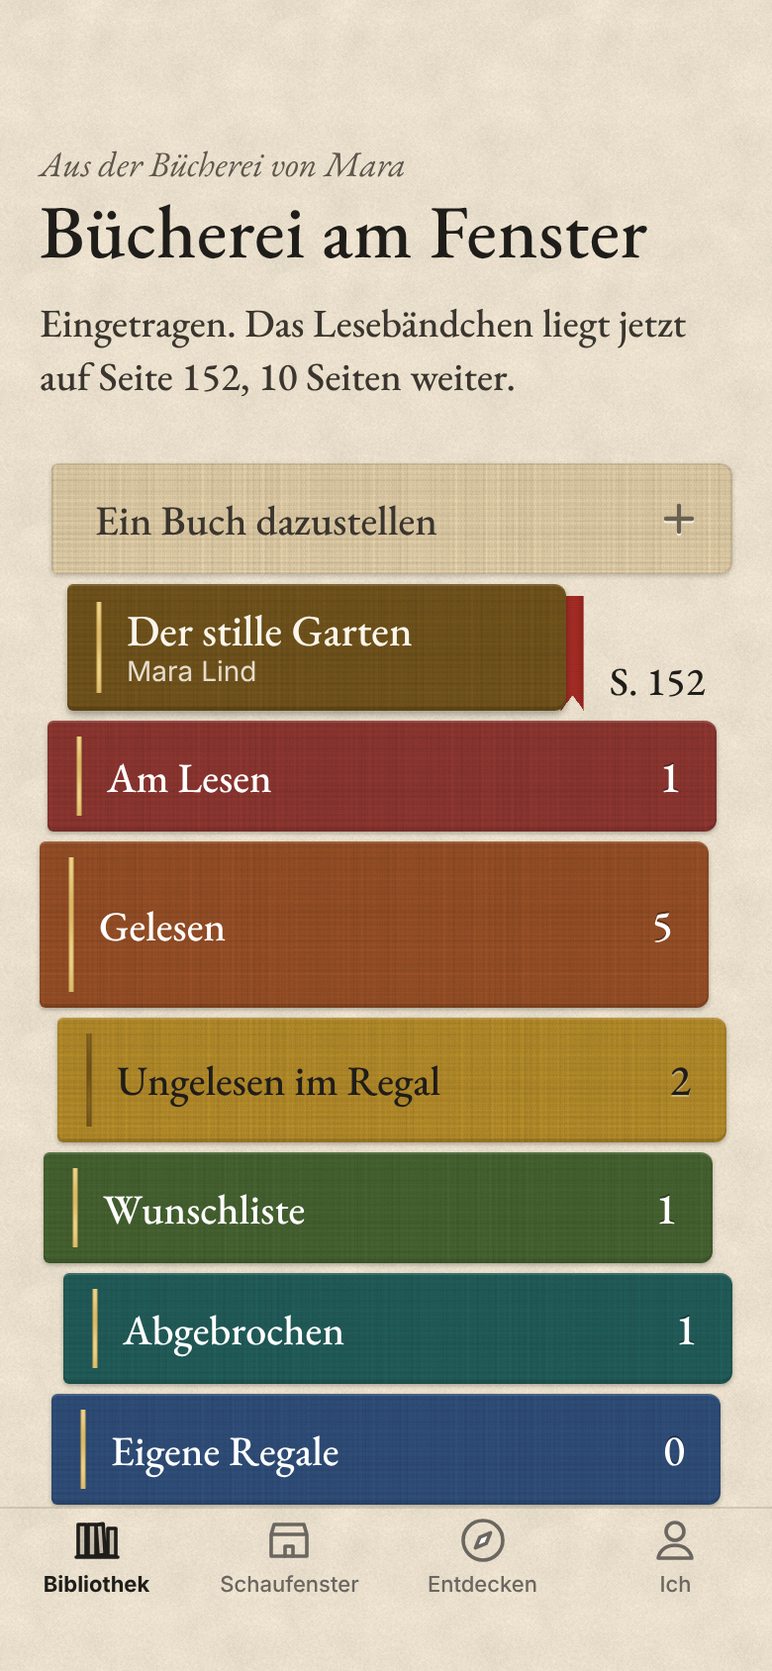
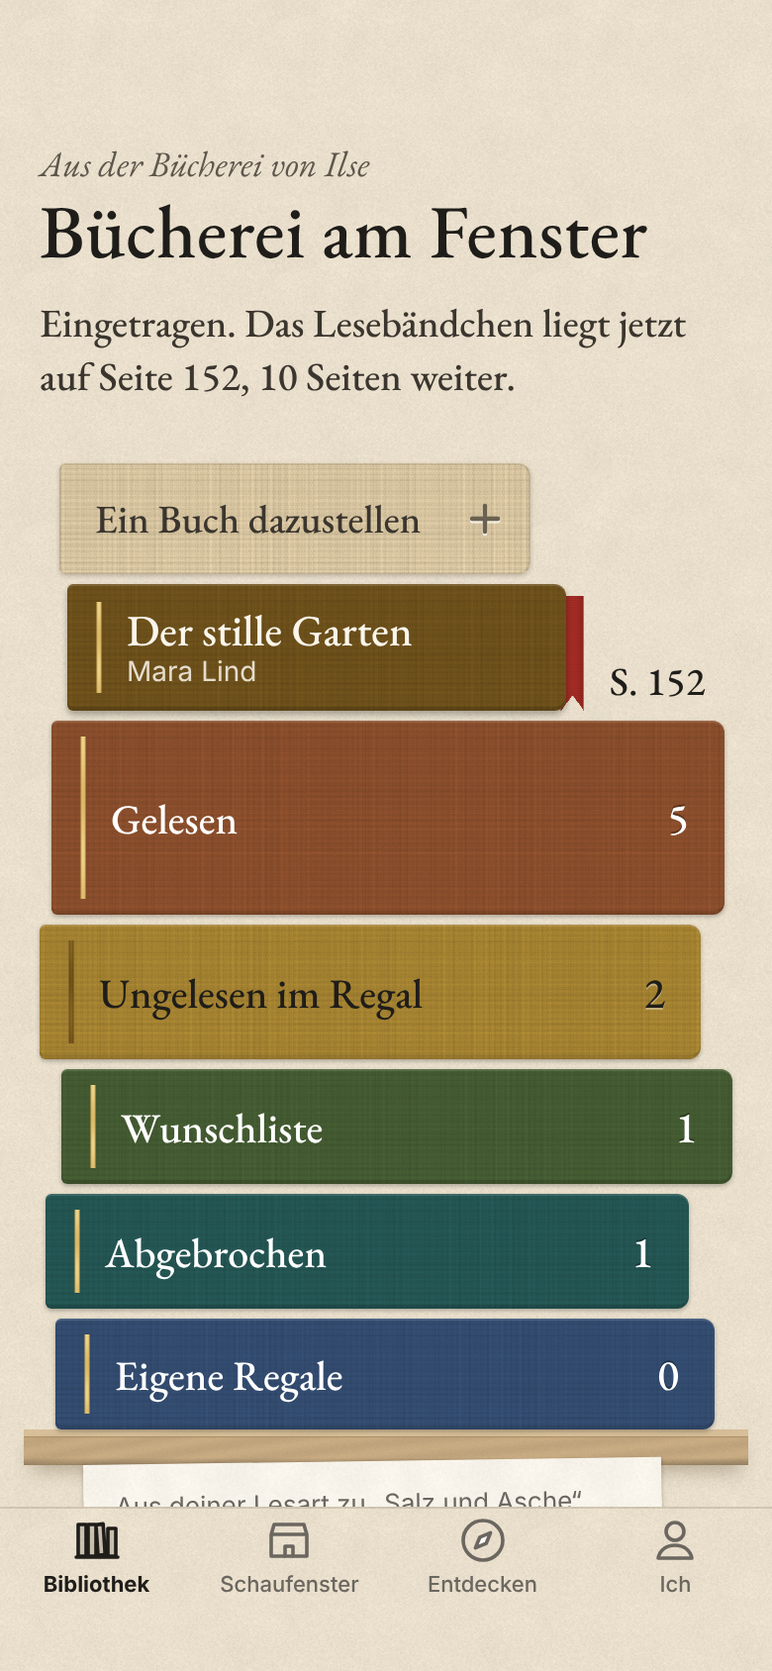
Nachprüfung der psychologischen Beratung: Stapel ohne Menü-Bände, ruhigerer Grund, Buchseiten in derselben Welt
Claude-Session: https://claude.ai/code/session_01XFBEjrJEUrXQYaFeZnVBdK

diff --git a/prototyp/app/Bibliothek.dc.html b/prototyp/app/Bibliothek.dc.html
@@ -21,7 +21,7 @@ input[type=search]::-webkit-search-cancel-button{display:none}
 ::selection{background:#E9D9B0;color:#1F1D1A}
 .linen{background-image:url(/_blob/fc177fec48818780d685607b9eea21d5);background-size:128px 128px;background-blend-mode:multiply}
 .vorsatz{background-image:url(/_blob/2a5bd52f874870d5bef9f086f6809ef7);background-size:390px 24px;background-repeat:repeat-x}
-.wall{background-color:#E9DFCC;background-image:url(/_blob/39fadb20abdb6a277d4352ba1feaef22);background-size:128px 128px}
+.wall{background-color:#E9DFCC;background-image:url(/_blob/613d9a95946f6112d2daabdd2d50346e);background-size:128px 128px}
 .paper{background-color:#F8F4EB;background-image:url(/_blob/67f11f01afe6fa9a030c514d45908343);background-size:128px 128px}
 .cloth-btn{background-color:#7E2E26;background-image:url(/_blob/fc177fec48818780d685607b9eea21d5);background-size:128px 128px;background-blend-mode:multiply}
 .scr{animation:fadeIn .15s ease-out both}
@@ -46,10 +46,10 @@ input[type=search]::-webkit-search-cancel-button{display:none}
 <p role="status" aria-live="polite" style="margin: 12px 0 0 0; font-family: 'EB Garamond', Georgia, serif; font-size: 20px; line-height: 27px; color: #3A352E">{{greeting}}</p>
 
 <div role="list" aria-label="Dein Regal" style="margin-top: 30px; display: flex; flex-direction: column; gap: 5px">
-<div role="listitem" style="padding-left: 6px">
+<div role="listitem" style="padding-left: 10px; width: 68%">
 <button type="button" onClick="{{openAdd}}" class="linen" style="position: relative; width: 100%; min-height: 56px; box-sizing: border-box; border: none; border-radius: 3px 6px 6px 3px; background-color: #F2DDB4; padding: 8px 0; cursor: pointer; display: flex; align-items: center; color: #3A352E; text-align: left; box-shadow: 0 1px 2px rgba(31,29,26,.22), inset 0 0 0 1px rgba(31,29,26,.10)">
-<span style="flex-grow: 1; padding-left: 22px; font-family: 'EB Garamond', Georgia, serif; font-size: 21px; line-height: 25px; font-weight: 500">Ein Buch dazustellen</span>
-<svg width="18" height="18" viewBox="0 0 18 18" aria-hidden="true" style="flex-shrink: 0; margin-right: 18px"><path d="M9 2.5v13M2.5 9h13" stroke="rgba(255,255,255,.7)" stroke-width="2.4" stroke-linecap="round" transform="translate(0 1)"></path><path d="M9 2.5v13M2.5 9h13" stroke="#6B6150" stroke-width="2.2" stroke-linecap="round"></path></svg>
+<span style="flex-grow: 1; padding-left: 18px; font-family: 'EB Garamond', Georgia, serif; font-size: 20px; line-height: 25px; font-weight: 500">Ein Buch dazustellen</span>
+<svg width="18" height="18" viewBox="0 0 18 18" aria-hidden="true" style="flex-shrink: 0; margin-right: 14px"><path d="M9 2.5v13M2.5 9h13" stroke="rgba(255,255,255,.7)" stroke-width="2.4" stroke-linecap="round" transform="translate(0 1)"></path><path d="M9 2.5v13M2.5 9h13" stroke="#6B6150" stroke-width="2.2" stroke-linecap="round"></path></svg>
 </button>
 </div>
 
@@ -84,7 +84,7 @@ input[type=search]::-webkit-search-cancel-button{display:none}
 <span style="font-family: 'EB Garamond', Georgia, serif; font-style: italic; font-size: 19px; line-height: 25px">{{card.text}}</span>
 </button>
 
-<p style="margin: 48px 12px 0 12px; text-align: center; font-family: 'EB Garamond', Georgia, serif; font-size: 17px; line-height: 24px; color: #5E574C">{{colophon}}</p>
+<button type="button" onClick="{{openStats}}" style="margin: 44px 12px 0 12px; min-height: 44px; border: none; background: none; cursor: pointer; text-align: center; font-family: 'EB Garamond', Georgia, serif; font-size: 17px; line-height: 24px; color: #5E574C; display: flex; flex-direction: column; align-items: center; gap: 2px"><span>{{colophon}}</span><span style="font-style: italic; color: #1F1D1A; text-decoration: underline; text-decoration-thickness: 1px; text-underline-offset: 3px">Mehr in deinen Statistiken</span></button>
 <p style="margin: 18px 0 0 0; text-align: center; font-size: 12px; line-height: 16px; color: #6B6760">Alle Bücher, Namen und Zitate sind Beispieldaten.</p>
 </div>
 </div>
@@ -129,13 +129,12 @@ input[type=search]::-webkit-search-cancel-button{display:none}
 </span>
 </sc-if>
 <span style="display: flex; align-items: center; gap: 8px; min-width: 0">
-<sc-if value="{{e.fresh}}" hint-placeholder-val="{{ false }}"><span style="flex-shrink: 0; font-size: 13px; font-weight: 600; color: #FFFFFF; background: #1F1D1A; border-radius: 10px; padding: 1px 8px">Neu</span></sc-if>
+<sc-if value="{{e.fresh}}" hint-placeholder-val="{{ false }}"><span style="flex-shrink: 0; font-family: 'EB Garamond', Georgia, serif; font-style: italic; font-size: 17px; color: #8E2F27">neu</span></sc-if>
 <span style="font-size: 15px; color: #6B6760; white-space: nowrap; overflow: hidden; text-overflow: ellipsis">{{e.meta}}</span>
 </span>
 </span>
-<svg width="9" height="15" viewBox="0 0 9 15" aria-hidden="true" style="flex-shrink: 0"><path d="M1.5 1.5l6 6-6 6" fill="none" stroke="#8A857C" stroke-width="2" stroke-linecap="round" stroke-linejoin="round"></path></svg>
 </button>
-<div aria-hidden="true" style="height: 1px; margin-left: 78px; background: #E8E0D2"></div>
+<div aria-hidden="true" style="height: 1px; margin: 0 16px 0 78px; background: #DCCFB8"></div>
 </sc-for>
 <sc-if value="{{vol.noResults}}" hint-placeholder-val="{{ false }}">
 <p style="margin: 24px 16px; font-size: 17px; line-height: 24px; color: #6B6760">Kein Buch in {{vol.name}} passt zu „{{query}}“.</p>
@@ -153,9 +152,9 @@ input[type=search]::-webkit-search-cancel-button{display:none}
 <div style="padding: 0 16px 32px 16px; display: flex; flex-direction: column">
 <sc-for list="{{statSections}}" as="sec" hint-placeholder-count="5">
 <section style="margin-top: 24px">
-<h2 style="margin: 0 0 4px 0; font-size: 20px; line-height: 25px; font-weight: 700">{{sec.title}}</h2>
+<h2 style="margin: 0 0 4px 0; font-family: 'EB Garamond', Georgia, serif; font-size: 24px; line-height: 28px; font-weight: 500">{{sec.title}}</h2>
 <p style="margin: 0 0 8px 0; font-size: 15px; line-height: 20px; color: #6B6760">{{sec.note}}</p>
-<div style="border: 1px solid #E2D9C9; border-radius: 12px; overflow: hidden">
+<div style="border-top: 1px solid #CDBFA6; border-bottom: 1px solid #CDBFA6">
 <sc-for list="{{sec.rows}}" as="r" hint-placeholder-count="3">
 <div style="{{r.style}}">
 <span style="font-size: 17px">{{r.k}}</span>
@@ -206,15 +205,15 @@ Bibliothek
 
 <sc-if value="{{book.hasReading}}" hint-placeholder-val="{{ false }}">
 <section style="margin-top: 32px">
-<h2 style="margin: 0 0 10px 0; font-size: 22px; line-height: 28px; font-weight: 700">Meine Lesart</h2>
-<p style="margin: 0; font-family: 'EB Garamond', Georgia, serif; font-style: italic; font-size: 21px; line-height: 30px">{{book.reading}}</p>
-<p style="margin: 10px 0 0 0; font-size: 17px; line-height: 24px; color: #6B6760">Für {{book.forWhom}}</p>
+<h2 style="margin: 0 0 10px 0; font-family: 'EB Garamond', Georgia, serif; font-size: 26px; line-height: 30px; font-weight: 500">Meine Lesart</h2>
+<div style="background: #FCFAF5; padding: 16px 18px 18px 18px; transform: rotate(-0.5deg); box-shadow: 0 1px 2px rgba(60,40,15,.25), 0 6px 14px -8px rgba(60,40,15,.35)"><p style="margin: 0; font-family: 'EB Garamond', Georgia, serif; font-style: italic; font-size: 21px; line-height: 30px">{{book.reading}}</p>
+<p style="margin: 12px 0 0 0; font-family: 'EB Garamond', Georgia, serif; font-size: 18px; line-height: 24px; color: #5E574C">Für {{book.forWhom}}</p></div>
 </section>
 </sc-if>
 
 <sc-if value="{{book.inviteCard}}" hint-placeholder-val="{{ false }}">
 <section style="margin-top: 32px; display: flex; flex-direction: column; gap: 14px">
-<h2 style="margin: 0; font-size: 22px; line-height: 28px; font-weight: 700">Meine Lesart</h2>
+<h2 style="margin: 0; font-family: 'EB Garamond', Georgia, serif; font-size: 26px; line-height: 30px; font-weight: 500">Meine Lesart</h2>
 <p style="margin: 0; font-size: 17px; line-height: 25px">{{book.inviteText}}</p>
 <button type="button" onClick="{{openSoon}}" style="align-self: flex-start; min-height: 48px; padding: 0 20px; border: 1.5px solid #1F1D1A; border-radius: 10px; background: none; color: #1F1D1A; font-size: 17px; font-weight: 600; cursor: pointer">{{book.inviteAction}}</button>
 </section>
@@ -229,13 +228,13 @@ Bibliothek
 
 <sc-if value="{{book.hasCard}}" hint-placeholder-val="{{ false }}">
 <section style="margin-top: 32px">
-<h2 style="margin: 0 0 10px 0; font-size: 22px; line-height: 28px; font-weight: 700">So hat es sich gelesen</h2>
+<h2 style="margin: 0 0 10px 0; font-family: 'EB Garamond', Georgia, serif; font-size: 26px; line-height: 30px; font-weight: 500">So hat es sich gelesen</h2>
 <p style="margin: 0; font-size: 17px; line-height: 25px">{{book.cardSentence}}</p>
 <dl style="margin: 14px 0 0 0; display: grid; grid-template-columns: auto 1fr; column-gap: 12px; row-gap: 6px; font-size: 17px; line-height: 24px">
 <dt style="font-weight: 600">Stark</dt><dd style="margin: 0">{{book.strong}}</dd>
 <dt style="font-weight: 600">Gehakt</dt><dd style="margin: 0">{{book.weak}}</dd>
 </dl>
-<div style="margin-top: 14px; border: 1px solid #E2D9C9; border-radius: 12px; overflow: hidden">
+<div style="margin-top: 14px; border-top: 1px solid #CDBFA6; border-bottom: 1px solid #CDBFA6">
 <button type="button" aria-expanded="{{fullCardExpanded}}" onClick="{{toggleFullCard}}" style="width: 100%; min-height: 52px; display: flex; align-items: center; justify-content: space-between; gap: 12px; border: none; background: none; padding: 0 16px; cursor: pointer; text-align: left; color: #1F1D1A">
 <span style="font-size: 17px">Ganze Karte</span>
 <svg width="14" height="9" viewBox="0 0 14 9" aria-hidden="true" style="{{fullCardChevron}}"><path d="M1.5 1.5l5.5 5.5 5.5-5.5" fill="none" stroke="#8A857C" stroke-width="2" stroke-linecap="round" stroke-linejoin="round"></path></svg>
@@ -249,7 +248,7 @@ Bibliothek
 </section>
 </sc-if>
 
-<div style="margin-top: 32px; border: 1px solid #E2D9C9; border-radius: 12px; overflow: hidden">
+<div style="margin-top: 32px; border-top: 1px solid #CDBFA6; border-bottom: 1px solid #CDBFA6">
 <sc-for list="{{book.details}}" as="d" hint-placeholder-count="2">
 <div style="{{d.wrapStyle}}">
 <button type="button" aria-expanded="{{d.expanded}}" onClick="{{d.toggle}}" style="width: 100%; min-height: 52px; display: flex; align-items: center; justify-content: space-between; gap: 12px; border: none; background: none; padding: 0 16px; cursor: pointer; text-align: left; color: #1F1D1A">
@@ -266,7 +265,7 @@ Bibliothek
 </div>
 
 <section style="margin-top: 32px">
-<h2 style="margin: 0 0 10px 0; font-size: 22px; line-height: 28px; font-weight: 700">Teilen</h2>
+<h2 style="margin: 0 0 10px 0; font-family: 'EB Garamond', Georgia, serif; font-size: 26px; line-height: 30px; font-weight: 500">Teilen</h2>
 <button type="button" role="switch" aria-checked="{{showcaseChecked}}" onClick="{{toggleShowcase}}" style="width: 100%; min-height: 56px; display: flex; align-items: center; justify-content: space-between; gap: 12px; border: 1px solid #E2D9C9; border-radius: 12px; background: rgba(255,255,255,.45); padding: 0 16px; cursor: pointer; text-align: left; color: #1F1D1A">
 <span style="font-size: 17px">Im Schaufenster zeigen</span>
 <span aria-hidden="true" style="{{switchTrack}}"><span style="{{switchKnob}}"></span></span>
@@ -313,7 +312,7 @@ Bibliothek
 <div aria-hidden="true" style="width: 36px; height: 5px; border-radius: 3px; background: #D5D0C7; margin: 2px auto 0 auto"></div>
 <div style="position: relative; height: 48px; display: flex; align-items: center; justify-content: space-between; padding: 0 8px; border-bottom: 1px solid #E8E0D2">
 <button type="button" onClick="{{closeSheet}}" style="min-height: 44px; min-width: 44px; padding: 0 8px; border: none; background: none; cursor: pointer; font-size: 17px; color: #1F1D1A">Abbrechen</button>
-<h2 style="position: absolute; left: 110px; right: 110px; margin: 0; text-align: center; font-size: 17px; line-height: 22px; font-weight: 600; white-space: nowrap; overflow: hidden; text-overflow: ellipsis">{{sheetTitle}}</h2>
+<h2 style="position: absolute; left: 100px; right: 100px; margin: 0; text-align: center; font-family: 'EB Garamond', Georgia, serif; font-size: 20px; line-height: 24px; font-weight: 500; white-space: nowrap; overflow: hidden; text-overflow: ellipsis">{{sheetTitle}}</h2>
 <sc-if value="{{isPageSheet}}" hint-placeholder-val="{{ false }}"><button type="button" onClick="{{savePage}}" disabled="{{saveDisabled}}" style="{{saveBtnStyle}}">Sichern</button></sc-if>
 </div>
 <div style="padding: 16px 16px 0 16px">
@@ -339,16 +338,9 @@ Bibliothek
 <sc-if value="{{isAddSheet}}" hint-placeholder-val="{{ false }}">
 <div style="display: flex; flex-direction: column">
 <sc-for list="{{addOptions}}" as="o" hint-placeholder-count="3">
-<button type="button" onClick="{{o.pick}}" style="min-height: 68px; display: flex; align-items: center; gap: 14px; border: none; border-bottom: 1px solid #E8E0D2; background: none; padding: 0; cursor: pointer; text-align: left; color: #1F1D1A">
-<span aria-hidden="true" style="width: 44px; height: 44px; border-radius: 12px; background: #ECE4D5; display: flex; align-items: center; justify-content: center; flex-shrink: 0">
-<svg width="24" height="24" viewBox="0 0 24 24" fill="none" stroke="#1F1D1A" stroke-width="1.8" stroke-linecap="round" stroke-linejoin="round">
-<sc-if value="{{o.isScan}}" hint-placeholder-val="{{ true }}"><path d="M3 7V4h3M18 4h3v3M21 17v3h-3M6 20H3v-3M7 8v8M10 8v8M13 8v8M16.5 8v8"></path></sc-if>
-<sc-if value="{{o.isType}}" hint-placeholder-val="{{ false }}"><path d="M3 6h18v12H3zM7 10h.01M11 10h.01M15 10h.01M7 14h10"></path></sc-if>
-<sc-if value="{{o.isHand}}" hint-placeholder-val="{{ false }}"><path d="M4 20l4-1 11-11-3-3L5 16zM14 7l3 3"></path></sc-if>
-</svg>
-</span>
-<span style="display: flex; flex-direction: column; gap: 2px; flex-grow: 1"><span style="font-size: 17px; font-weight: 600">{{o.title}}</span><span style="font-size: 15px; color: #6B6760">{{o.sub}}</span></span>
-<svg width="9" height="15" viewBox="0 0 9 15" aria-hidden="true" style="flex-shrink: 0"><path d="M1.5 1.5l6 6-6 6" fill="none" stroke="#8A857C" stroke-width="2" stroke-linecap="round" stroke-linejoin="round"></path></svg>
+<button type="button" onClick="{{o.pick}}" style="min-height: 72px; display: flex; flex-direction: column; justify-content: center; gap: 2px; border: none; border-bottom: 1px solid #DCCFB8; background: none; padding: 8px 4px; cursor: pointer; text-align: left; color: #1F1D1A">
+<span style="font-family: 'EB Garamond', Georgia, serif; font-size: 23px; line-height: 27px; font-weight: 500">{{o.title}}</span>
+<span style="font-size: 15px; line-height: 20px; color: #6B6760">{{o.sub}}</span>
 </button>
 </sc-for>
 <sc-if value="{{addNote}}" hint-placeholder-val="{{ false }}"><p role="status" style="margin: 14px 0 0 0; font-size: 15px; line-height: 21px; color: #6B6760">Dieser Schritt folgt im nächsten Prototyp.</p></sc-if>
@@ -380,13 +372,13 @@ Bibliothek
 <script type="text/x-dc" data-dc-script data-props='{"$preview":{"width":390,"height":844}}'>
 var INK = '#1F1D1A';
 var VOLS = [
-  { key: 'lesen', name: 'Am Lesen', color: '#983A34', ink: '#FFFFFF', sub: 'Was gerade aufgeschlagen auf dem Nachttisch liegt.' },
-  { key: 'gelesen', name: 'Gelesen', color: '#A25529', ink: '#FFFFFF', sub: 'Zu Ende gelesen, mit deinen Karten.' },
-  { key: 'ungelesen', name: 'Ungelesen im Regal', color: '#C2962D', ink: INK, edge: true, sub: 'Besitzt du schon. Wartet geduldig.' },
-  { key: 'wunsch', name: 'Wunschliste', color: '#4B6A34', ink: '#FFFFFF', sub: 'Noch nicht bei dir.' },
-  { key: 'abgebrochen', name: 'Abgebrochen', color: '#246461', ink: '#FFFFFF', sub: 'Nicht jedes Buch ist für jetzt.' },
-  { key: 'regale', name: 'Eigene Regale', color: '#335483', ink: '#FFFFFF', sub: 'Sammlungen, die nur du so ordnest.' },
-  { key: 'stats', name: 'Statistiken', color: '#59417B', ink: '#FFFFFF', sub: 'Was dein Lesen über dich erzählt.' }
+  { key: 'lesen', name: 'Am Lesen', color: '#91403B', ink: '#FFFFFF', sub: 'Was gerade aufgeschlagen auf dem Nachttisch liegt.' },
+  { key: 'gelesen', name: 'Gelesen', color: '#9A5731', ink: '#FFFFFF', sub: 'Zu Ende gelesen, mit deinen Karten.' },
+  { key: 'ungelesen', name: 'Ungelesen im Regal', color: '#B89237', ink: INK, edge: true, sub: 'Besitzt du schon. Wartet geduldig.' },
+  { key: 'wunsch', name: 'Wunschliste', color: '#4C6638', ink: '#FFFFFF', sub: 'Noch nicht bei dir.' },
+  { key: 'abgebrochen', name: 'Abgebrochen', color: '#28605D', ink: '#FFFFFF', sub: 'Nicht jedes Buch ist für jetzt.' },
+  { key: 'regale', name: 'Eigene Regale', color: '#39557D', ink: '#FFFFFF', sub: 'Sammlungen, die nur du so ordnest.' },
+  { key: 'stats', name: 'Statistiken', color: '#5A4577', ink: '#FFFFFF', sub: 'Was dein Lesen über dich erzählt.' }
 ];
 var BOOKS = [
   { id: 'garten', vol: 'lesen', title: 'Der stille Garten', author: 'Mara Lind', genre: 'Roman / Gegenwart', pages: 312, c: '#7A5A1E', status: 'Am Lesen seit 2. Oktober',
@@ -474,8 +466,8 @@ class Component extends DCLogic {
     var hello = hour < 11 ? 'Guten Morgen.' : (hour < 18 ? 'Schön, dass du da bist.' : 'Guten Abend.');
     var counts = {};
     BOOKS.forEach(function (b) { counts[b.vol] = (counts[b.vol] || 0) + 1; });
-    var offsets = [4, 0, 9, 2, 12, 6, 1];
-    var spines = VOLS.map(function (v, i) {
+    var offsets = [6, 0, 11, 3, 8]; var trims = [4, 16, 0, 22, 9];
+    var spines = VOLS.filter(function (v) { return v.key !== 'lesen' && v.key !== 'stats'; }).map(function (v, i) {
       var n = v.key === 'regale' ? SHELVES : (counts[v.key] || 0);
       var unit = v.key === 'regale' ? (n === 1 ? '1 Regal' : n + ' Regale') : (n === 1 ? '1 Buch' : n + ' Bücher');
       return {
@@ -483,8 +475,8 @@ class Component extends DCLogic {
         count: v.key === 'stats' ? '' : String(n),
         aria: v.key === 'stats' ? 'Statistiken öffnen' : v.name + ', ' + unit + ', öffnen',
         open: function () { self.nav({ screen: 'vol', vol: v.key }); },
-        rowStyle: 'padding-left: ' + offsets[i] + 'px; padding-right: ' + (12 - offsets[i]) + 'px',
-        style: 'position: relative; width: 100%; min-height: ' + (v.key === 'stats' || v.key === 'regale' ? 56 : 56 + Math.min(4, Math.max(0, n - 1)) * 7) + 'px; display: flex; align-items: center; box-sizing: border-box; padding: 8px 0; border: none; border-radius: 3px 6px 6px 3px; background-color: ' + v.color + '; box-shadow: 0 1px 2px rgba(31,29,26,.3), inset 0 1px 0 rgba(255,255,255,.12), inset 0 -2px 0 rgba(0,0,0,.12); cursor: pointer; text-align: left',
+        rowStyle: 'padding-left: ' + offsets[i] + 'px; padding-right: ' + trims[i] + 'px',
+        style: 'position: relative; width: 100%; min-height: ' + Math.min(104, Math.max(56, 48 + n * 10)) + 'px; display: flex; align-items: center; box-sizing: border-box; padding: 8px 0; border: none; border-radius: 3px 6px 6px 3px; background-color: ' + v.color + '; box-shadow: 0 1px 2px rgba(31,29,26,.3), inset 0 1px 0 rgba(255,255,255,.12), inset 0 -2px 0 rgba(0,0,0,.12); cursor: pointer; text-align: left',
         stamp: 'position: absolute; left: 14px; top: 8px; width: 4px; height: calc(100% - 16px); object-fit: fill',
         stampSrc: v.ink === INK ? '/_blob/b368959550b051244e1369ca50312065' : '/_blob/eb2b88bd243bf1a65692bd8e9d605dc4',
         labelStyle: "flex-grow: 1; min-width: 0; padding-left: 30px; padding-right: 4px; font-family: 'EB Garamond', Georgia, serif; font-size: 21px; line-height: 25px; font-weight: 500; color: " + v.ink + '; overflow-wrap: anywhere',
@@ -577,7 +569,7 @@ class Component extends DCLogic {
       isHome: s.screen === 'home', isVol: s.screen === 'vol', isBook: s.screen === 'book', isTab: s.screen === 'tab',
       scrolled: s.scrolled,
       greeting: s.saved ? s.saved : hello + ' Das Lesebändchen liegt noch auf Seite ' + s.page + '.',
-      owner: 'Mara', libraryName: 'Bücherei am Fenster',
+      owner: 'Ilse', libraryName: 'Bücherei am Fenster',
       card: { title: BOOKS[1].title, text: BOOKS[1].reading.split('. ')[0] + '.' },
       colophon: 'Gesammelt seit März 2025. Am häufigsten gelesen: ' + STATS.summary.topAuthor + '.',
       bookmarkLine: 'Das Lesebändchen liegt auf Seite ' + s.page + ' von ' + cur.pages + '.',

diff --git a/prototyp/app/flow.js b/prototyp/app/flow.js
@@ -1,7 +1,7 @@
 const { chromium } = require('playwright');
 const http = require('http'), fs = require('fs'), path = require('path');
 const root = process.argv[2], out = process.argv[3];
-const srv = http.createServer((q, r) => { const BL={'fc177fec48818780d685607b9eea21d5':'linen.png','eb2b88bd243bf1a65692bd8e9d605dc4':'praegung.png','2a5bd52f874870d5bef9f086f6809ef7':'vorsatz.png','b368959550b051244e1369ca50312065':'praegung-dunkel.png','39fadb20abdb6a277d4352ba1feaef22':'rueckwand.png','67f11f01afe6fa9a030c514d45908343':'papier.png','e7aadb19a93e9e29d8560f1724b76c2e':'brett.png','e70bf0232b11a4aa12f0c4f148b2bf4a':'baendchen.png'}; let u=decodeURIComponent(q.url.split('?')[0]); if(u.startsWith('/_blob/')) u='/../../../../../home/claude/bookclub/prototyp/app/assets/'+BL[u.slice(7)]; const f = u.includes('/home/claude/')?u.slice(u.indexOf('/home/claude/')):path.join(root, u); fs.readFile(f, (e, d) => { if (e) { r.writeHead(404); r.end(); return; } r.writeHead(200, { 'content-type': f.endsWith('.js') ? 'text/javascript' : (f.endsWith('.png')?'image/png':'text/html') }); r.end(d); }); });
+const srv = http.createServer((q, r) => { const BL={'fc177fec48818780d685607b9eea21d5':'linen.png','eb2b88bd243bf1a65692bd8e9d605dc4':'praegung.png','2a5bd52f874870d5bef9f086f6809ef7':'vorsatz.png','b368959550b051244e1369ca50312065':'praegung-dunkel.png','613d9a95946f6112d2daabdd2d50346e':'rueckwand.png','67f11f01afe6fa9a030c514d45908343':'papier.png','e7aadb19a93e9e29d8560f1724b76c2e':'brett.png','e70bf0232b11a4aa12f0c4f148b2bf4a':'baendchen.png'}; let u=decodeURIComponent(q.url.split('?')[0]); if(u.startsWith('/_blob/')) u='/../../../../../home/claude/bookclub/prototyp/app/assets/'+BL[u.slice(7)]; const f = u.includes('/home/claude/')?u.slice(u.indexOf('/home/claude/')):path.join(root, u); fs.readFile(f, (e, d) => { if (e) { r.writeHead(404); r.end(); return; } r.writeHead(200, { 'content-type': f.endsWith('.js') ? 'text/javascript' : (f.endsWith('.png')?'image/png':'text/html') }); r.end(d); }); });
 srv.listen(8765, async () => {
   const b = await chromium.launch();
   const p = await b.newPage({ viewport: { width: 390, height: 844 }, deviceScaleFactor: 2, reducedMotion: 'reduce' });
@@ -15,7 +15,7 @@ srv.listen(8765, async () => {
   await scrollMain(0);
   await p.getByRole('button', { name: /Lesebändchen auf Seite/ }).click(); await shot('03-page-sheet');
   await p.getByRole('button', { name: '+10' }).click(); await p.getByRole('button', { name: 'Sichern' }).click(); await shot('04-saved');
-  await p.getByRole('button', { name: /Gelesen, 5 Bücher/ }).click(); await shot('05-vol-gelesen');
+  await p.getByRole('button', { name: /^Gelesen, 5 Bücher/ }).click(); await shot('05-vol-gelesen');
   await p.getByRole('button', { name: /Salz und Asche/ }).click(); await shot('06-book-top');
   await scrollMain(700); await shot('07-book-mid');
   await scrollMain(2000); await shot('08-book-bottom');
@@ -27,7 +27,7 @@ srv.listen(8765, async () => {
   await p.getByRole('button', { name: /Das Haus am Moor/ }).click(); await shot('12-book-unread');
   await p.getByRole('button', { name: /^Ungelesen im Regal$/ }).first().click();
   await p.getByRole('button', { name: /^Bibliothek$/ }).first().click();
-  await p.getByRole('button', { name: 'Statistiken öffnen' }).click(); await shot('13-stats'); await scrollMain(600); await shot('14-stats-2');
+  await p.getByRole('button', { name: /Mehr in deinen Statistiken/ }).click(); await shot('13-stats'); await scrollMain(600); await shot('14-stats-2');
   await p.getByRole('button', { name: /^Bibliothek$/ }).first().click();
   await p.getByRole('button', { name: 'Ein Buch dazustellen' }).click(); await shot('15-add-sheet');
   await p.getByRole('button', { name: /Strichcode/ }).click(); await shot('16-add-note');

diff --git a/prototyp/app/assets/make_raum.py b/prototyp/app/assets/make_raum.py
@@ -27,7 +27,7 @@ def paper(base, amp_fibre, amp_cloud, weave):
     img = np.array(base, float)[None, None, :] + lum[..., None] * np.array([1.0, 0.97, 0.9])
     return Image.fromarray(img.clip(0, 255).astype('uint8'), 'RGB')
 
-paper((233, 223, 204), 3.0, 1.7, 1.4).filter(ImageFilter.GaussianBlur(0.4)).save(out + 'rueckwand.png')
+paper((233, 223, 204), 2.8, 0.85, 1.3).filter(ImageFilter.GaussianBlur(0.4)).save(out + 'rueckwand.png')
 paper((248, 244, 235), 2.0, 1.6, 0).filter(ImageFilter.GaussianBlur(0.4)).save(out + 'papier.png')
 
 # Regalbrett: Draufsicht-Kante oben hell, Stirnseite mit Maserung, weiche Schattenkante unten

diff --git a/prototyp/app/README.md b/prototyp/app/README.md
@@ -45,7 +45,16 @@ Hinweis der Prüfung, noch nicht entschieden: Sterne erscheinen überall; wenn s
 - Knöpfe aus Leinen statt schwarzer Pillen
 - Neue Bilder: `assets/make_raum.py` (Rückwand, Buchpapier, Regalbrett, Lesebändchen)
 
-Offen: Band- und Buchseiten noch in Listenoptik, Patina der Bände, Android-Variante, endgültige Bereichsnamen.
+Nachprüfung durch die psychologische Beratung, eingearbeitet:
+
+- „Am Lesen“ und „Statistiken“ sind keine Bände im Stapel mehr. Das Buch obenauf ist „Am Lesen“, die Statistiken erreicht man über den Druckvermerk
+- Rücken deutlich dicker nach Anzahl, Breiten variieren
+- „Ein Buch dazustellen“ bescheidener (2/3 Breite), Sheet mit drei großen Zeilen in Buchschrift statt Symbolkacheln
+- Grund ruhiger (nur Korn), Leinen weiter entsättigt
+- Beispiel-Besitzerin heißt Ilse (vorher Verwechslung mit Autorin Mara Lind)
+- Band- und Buchseiten: Überschriften in Buchschrift, keine Pfeile in Buchlisten, „neu“ als leises Wort statt schwarzer Pille, Linien statt Rahmenkarten, die eigene Lesart als Zettel
+
+Offen: Patina der Bände, Android-Variante, endgültige Bereichsnamen.
 
 ## Dateien
 
